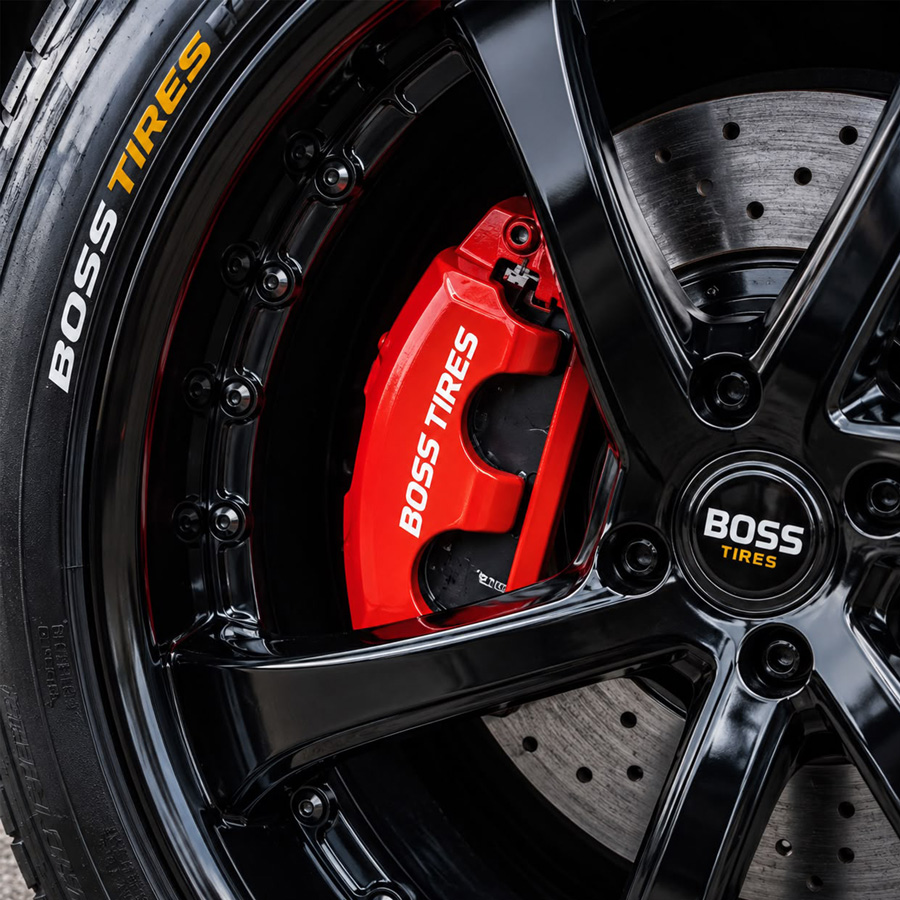
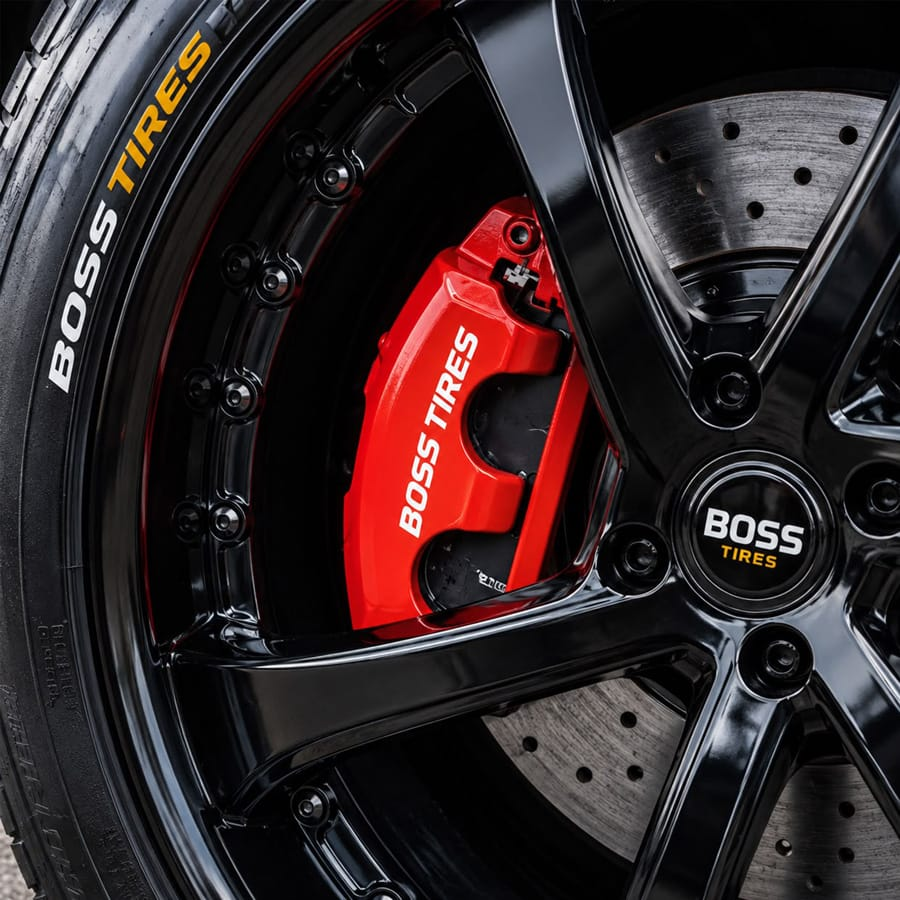
Optimize images, add AVIF/WebP, fix redirect 404s
Performance:
- Recompress all self-hosted photos (mozjpeg q80, strip EXIF, cap 1600px);
  source folder 3.87MB -> 1.3MB (~69% smaller).
- Fix storefront.jpg: was a 2.2MB PNG mislabeled .jpg, now a 220KB JPEG.
- Enable AVIF + WebP output and a 1-year optimizer cache in next.config.

SEO:
- 8 redirects were 301-ing retired WooCommerce URLs into /services/<slug>
  pages that don't exist (soft 404s). Repoint to /services#<slug> deep-links
  and add matching anchor ids to the service catalog cards.

diff --git a/next.config.ts b/next.config.ts
@@ -9,6 +9,13 @@ import type { NextConfig } from "next";
 // matching Ad Final URL is updated on his side. These 301s are the safety net
 // for organic/indexed links and any ad URL not yet updated.
 const nextConfig: NextConfig = {
+  // Serve AVIF/WebP from next/image (AVIF is not on by default). The optimizer
+  // resizes the self-hosted /photos originals per breakpoint and caches the
+  // result; a long minimumCacheTTL keeps repeat visitors on the cached variant.
+  images: {
+    formats: ["image/avif", "image/webp"],
+    minimumCacheTTL: 31536000, // 1 year — photos are static, cache-bust by filename
+  },
   async redirects() {
     return [
       // ── Retired duplicate pages → the services hub ──
@@ -21,16 +28,19 @@ const nextConfig: NextConfig = {
       { source: "/product-category/services", destination: "/services", permanent: true },
 
       // ── Service products (WooCommerce) → real pages ──
-      // Wheel alignment kept its own high-value URL (advertised + organically ranked).
-      { source: "/product/wheel-alignment", destination: "/services/wheel-alignment", permanent: true },
-      { source: "/product/rim-repair-bend-repairs", destination: "/services/rim-repair", permanent: true },
+      // No dedicated /services/<slug> pages exist yet, so these deep-link to the
+      // matching card on the services hub (anchor ids added in ServiceCatalog)
+      // instead of 301-ing into a 404. When per-service pages are built, repoint
+      // these to /services/<slug>. Anchors match the service slugs in services.ts.
+      { source: "/product/wheel-alignment", destination: "/services#wheel-alignment", permanent: true },
+      { source: "/product/rim-repair-bend-repairs", destination: "/services#rim-repair", permanent: true },
       { source: "/product/tire-changeover", destination: "/winter-tire-changeover", permanent: true },
-      { source: "/product/tire-storage", destination: "/services/tire-storage", permanent: true },
-      { source: "/product/tire-rebalancing", destination: "/services/tire-rebalancing", permanent: true },
-      { source: "/product/tire-bolt-on", destination: "/services/tire-bolt-on", permanent: true },
-      { source: "/product/oil-change", destination: "/services/oil-change", permanent: true },
-      { source: "/product/tpms-tire-pressure-monitor", destination: "/services/tpms", permanent: true },
-      { source: "/product/caliper-painting-all-four", destination: "/services/caliper-painting", permanent: true },
+      { source: "/product/tire-storage", destination: "/services#tire-storage", permanent: true },
+      { source: "/product/tire-rebalancing", destination: "/services#tire-rebalancing", permanent: true },
+      { source: "/product/tire-bolt-on", destination: "/services#tire-bolt-on", permanent: true },
+      { source: "/product/oil-change", destination: "/services#oil-change", permanent: true },
+      { source: "/product/tpms-tire-pressure-monitor", destination: "/services#tpms", permanent: true },
+      { source: "/product/caliper-painting-all-four", destination: "/services#caliper-painting", permanent: true },
       { source: "/product/boss-muffler-repair-replacement", destination: "/muffler-exhaust", permanent: true },
       { source: "/product/boss-exhaust-repair", destination: "/muffler-exhaust", permanent: true },
 

diff --git a/src/components/sections/ServiceCatalog.tsx b/src/components/sections/ServiceCatalog.tsx
@@ -18,7 +18,7 @@ export function ServiceCatalog() {
 
           <div className="mt-6 grid gap-4 sm:grid-cols-2">
             {items.map((s) => (
-              <div key={s.slug} className="rounded-lg border border-[var(--color-border)] bg-[var(--color-paper)] p-6">
+              <div key={s.slug} id={s.slug} className="scroll-mt-24 rounded-lg border border-[var(--color-border)] bg-[var(--color-paper)] p-6">
                 <div className="flex items-start justify-between gap-4">
                   <h3 className="font-display text-xl font-bold uppercase tracking-wide text-[var(--color-heading)]">
                     {s.name}
